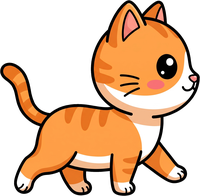
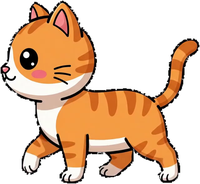
feat: 走路動畫終於有真的腳步交替——從走路影片抽格而來
前面試了四五輪「拿參考圖改姿勢」都沒辦法讓後腳一起動，改成請使用者直接生
一段側面走路的循環動畫（純色綠幕背景，方便去背），再用程式從影片裡抽格、
挑出腳步差異最明顯的兩幀（t=0.000 大跨步、t=0.250 腳收攏），色鍵去背後
存成 cat_walk_a.png / cat_walk_b.png。這兩幀前後腳都真的有交替位置，不是
只有前腳在動。

走路 sprite 結構因此多一層：pet-room-sprite 現在同時包著「兩幀交叉淡出
的走路圖層」和「靜態坐姿圖」，依狀態切換 display，兩者互不干擾——交叉
淡出動畫（opacity）架在兩張 img 上，走路彈跳動畫（transform）架在外層
wrapper 上，眨眼動畫也移到靜態圖上，三個動畫分別作用在不同元素，不會
互相覆蓋。

色鍵去背用 HSV 色相偵測抓純色綠幕背景＋陰影橢圓（陰影是綠幕的暗色版本，
同一個連通區域一起摳掉），邊緣做了輕微羽化，抽樣檢查邊界像素沒有綠色
色差殘留。

用 Playwright 強制觸發 walking/sleeping 狀態各截圖驗證，display 切換
正確、無 JS 錯誤。

diff --git a/index.html b/index.html
@@ -211,9 +211,16 @@ body {
   position: absolute; bottom: 20px; left: 40%; width: 56px; height: 56px; cursor: pointer; z-index: 2;
 }
 .pet-room-flip { width: 100%; height: 100%; }
-.pet-room-sprite { display: block; width: 100%; height: 100%; object-fit: contain; }
+.pet-room-sprite { position: relative; width: 100%; height: 100%; }
 .pet-room-sprite.pet-room-walking { animation: petWalkBob 0.45s ease-in-out infinite; }
-.pet-room-sprite.pet-room-blink { animation: petRoomBlinkAnim 0.18s ease; }
+.pet-room-static.pet-room-blink { animation: petRoomBlinkAnim 0.18s ease; }
+.pet-room-walkframes { position: absolute; inset: 0; }
+.pet-room-frame { position: absolute; inset: 0; width: 100%; height: 100%; object-fit: contain; }
+.pet-room-frame.frame-a { animation: petFrameA 0.5s steps(1) infinite; }
+.pet-room-frame.frame-b { animation: petFrameB 0.5s steps(1) infinite; }
+@keyframes petFrameA { 0%,49% { opacity: 1; } 50%,100% { opacity: 0; } }
+@keyframes petFrameB { 0%,49% { opacity: 0; } 50%,100% { opacity: 1; } }
+.pet-room-static { display: block; width: 100%; height: 100%; object-fit: contain; }
 @keyframes petWalkBob {
   0%, 100% { transform: translateY(0) rotate(0deg); }
   25%      { transform: translateY(-3px) rotate(-3deg); }
@@ -2216,7 +2223,13 @@ function renderForestPet(data) {
           <div class="pet-room-rug"></div>
           <div class="pet-room-wrap" id="pet-room-wrap" onclick="openPetZoom()">
             <div class="pet-room-flip" id="pet-room-flip">
-              <img class="pet-room-sprite" id="pet-room-sprite" src="img/pet/cat_walk_a.png" alt="貓咪">
+              <div class="pet-room-sprite" id="pet-room-sprite">
+                <div class="pet-room-walkframes" id="pet-room-walkframes">
+                  <img class="pet-room-frame frame-a" src="img/pet/cat_walk_a.png" alt="">
+                  <img class="pet-room-frame frame-b" src="img/pet/cat_walk_b.png" alt="">
+                </div>
+                <img class="pet-room-static" id="pet-room-static" src="img/pet/cat_portrait.png" alt="貓咪">
+              </div>
             </div>
           </div>
         </div>
@@ -2249,9 +2262,10 @@ function renderForestPet(data) {
 
 // ══════════════════════════════════════════════
 // 森林小屋房間：貓咪不規律地走動/坐/理毛/睡覺，讓牠感覺是活著的，
-// 不是機械式的固定巡邏。sitting/grooming/sleeping 目前還沒有專屬姿勢的
-// 圖，先用同一張站姿圖 + 動作提示文字/小圖示代替，之後有素材了只要在
-// petRoomTick() 裡把對應的 sprite.src 換成新圖就好，邏輯不用重寫。
+// 不是機械式的固定巡邏。走路用真的兩幀交叉淡出（從走路影片抽格出來，腳步
+// 前後真的有交替）；sitting/grooming/sleeping 目前還沒有專屬姿勢的圖，
+// 先用同一張坐姿圖 + 動作提示文字/小圖示代替，之後有素材了只要在
+// petRoomTick() 裡把 staticImg.src 換成新圖就好，邏輯不用重寫。
 // ══════════════════════════════════════════════
 const PET_ROOM_SPEED = 24; // px/秒
 let petRoomTimer = null;
@@ -2265,6 +2279,8 @@ function petRoomEls() {
     wrap: document.getElementById('pet-room-wrap'),
     flip: document.getElementById('pet-room-flip'),
     sprite: document.getElementById('pet-room-sprite'),
+    walkFrames: document.getElementById('pet-room-walkframes'),
+    staticImg: document.getElementById('pet-room-static'),
   };
 }
 
@@ -2293,7 +2309,7 @@ function petRoomTick() {
   const oldFx = els.wrap.querySelector('.pet-room-zzz, .pet-room-groom-fx');
   if (oldFx) oldFx.remove();
   els.sprite.classList.remove('pet-room-walking');
-  els.sprite.style.transform = '';
+  els.staticImg.style.transform = '';
 
   const roll = Math.random();
   let state, duration;
@@ -2316,23 +2332,27 @@ function petRoomTick() {
     els.flip.style.transform = `scaleX(${petRoomFacing})`;
     els.wrap.style.transition = `left ${duration}s linear`;
     els.wrap.style.left = targetLeftPx + 'px';
-    els.sprite.src = 'img/pet/cat_walk_a.png';
+    els.walkFrames.style.display = 'block';
+    els.staticImg.style.display = 'none';
     els.sprite.classList.add('pet-room-walking');
     setRoomStatus('貓咪走來走去～');
   } else if (state === 'idle') {
     duration = 2 + Math.random() * 2;
     els.wrap.style.transition = '';
-    els.sprite.src = 'img/pet/cat_portrait.png';
+    els.walkFrames.style.display = 'none';
+    els.staticImg.style.display = 'block';
     setRoomStatus('貓咪東張西望中…');
   } else if (state === 'sitting') {
     duration = 3 + Math.random() * 3;
     els.wrap.style.transition = '';
-    els.sprite.src = 'img/pet/cat_portrait.png';
+    els.walkFrames.style.display = 'none';
+    els.staticImg.style.display = 'block';
     setRoomStatus('貓咪坐著休息～');
   } else if (state === 'grooming') {
     duration = 3 + Math.random() * 2;
     els.wrap.style.transition = '';
-    els.sprite.src = 'img/pet/cat_portrait.png';
+    els.walkFrames.style.display = 'none';
+    els.staticImg.style.display = 'block';
     const fx = document.createElement('div');
     fx.className = 'pet-room-groom-fx';
     fx.textContent = '💦';
@@ -2341,8 +2361,9 @@ function petRoomTick() {
   } else { // sleeping
     duration = 6 + Math.random() * 5;
     els.wrap.style.transition = '';
-    els.sprite.src = 'img/pet/cat_portrait.png';
-    els.sprite.style.transform = 'rotate(90deg)';
+    els.walkFrames.style.display = 'none';
+    els.staticImg.style.display = 'block';
+    els.staticImg.style.transform = 'rotate(90deg)';
     const zzz = document.createElement('div');
     zzz.className = 'pet-room-zzz';
     zzz.textContent = '💤';
@@ -2357,10 +2378,10 @@ function petRoomMaybeBlink() {
   if (petRoomCurrentState !== 'idle' && petRoomCurrentState !== 'sitting') return; // 走路/理毛/睡覺時不眨眼
   if (Math.random() < 0.5) return; // 不用每次都眨，看起來更自然
   const els = petRoomEls();
-  if (!els.sprite) return;
-  els.sprite.classList.remove('pet-room-blink');
-  void els.sprite.offsetWidth;
-  els.sprite.classList.add('pet-room-blink');
+  if (!els.staticImg) return;
+  els.staticImg.classList.remove('pet-room-blink');
+  void els.staticImg.offsetWidth;
+  els.staticImg.classList.add('pet-room-blink');
 }
 
 function openPetZoom() {
